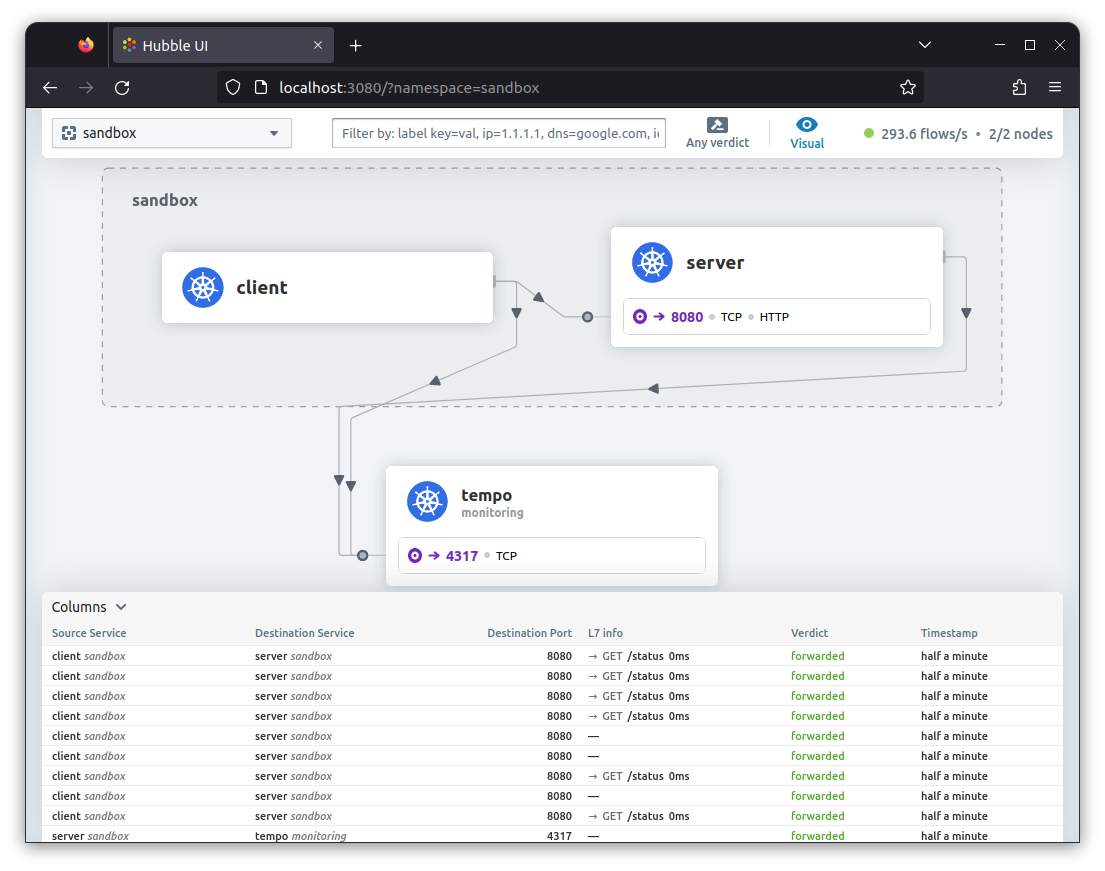
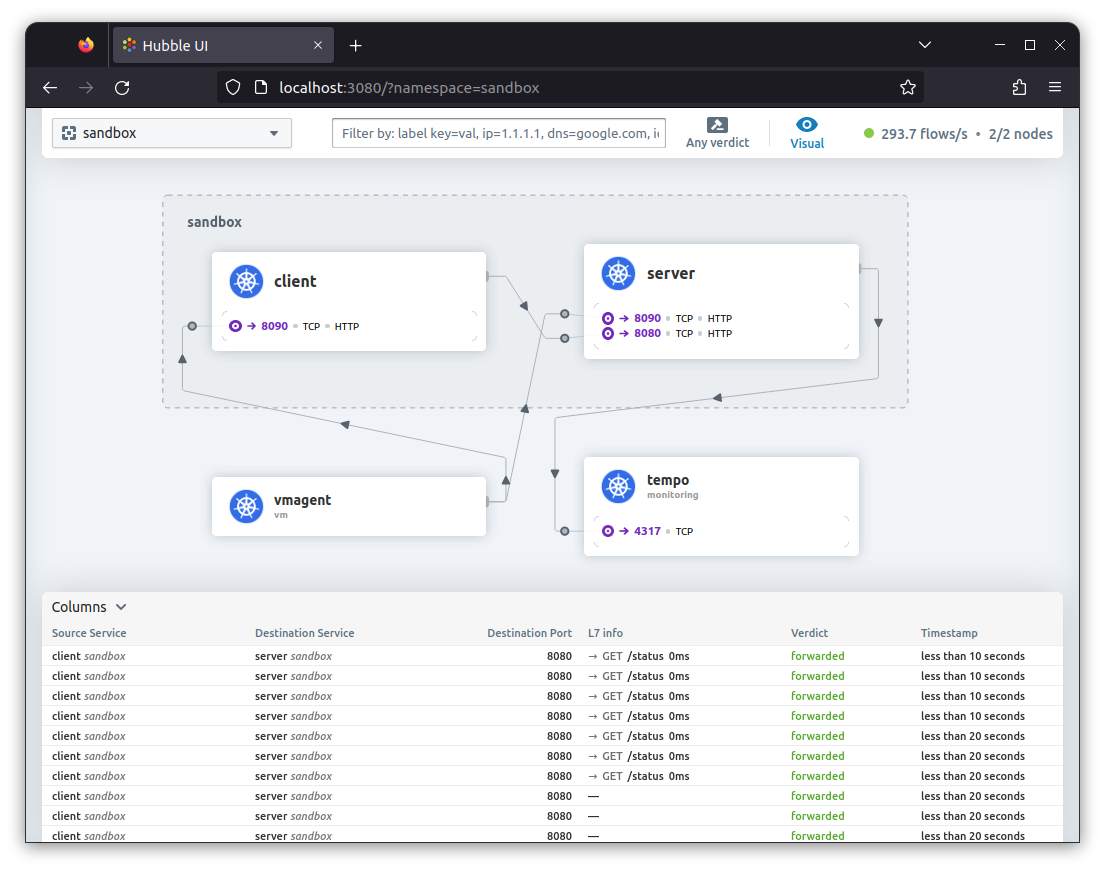
feat(deploy): metrics

diff --git a/README.md b/README.md
@@ -6,8 +6,9 @@ Supported platforms: {linux, windows, darwin}-{amd64, arm64, **riscv64**}
 
 ## Observability
 - [x] Logs
-- [ ] Metrics
-- [ ] Traces
+- [x] Metrics
+- [x] Traces
+- [ ] Context propagation
 - [ ] Profiling
 - [ ] Health checks
   - [ ] Liveness
